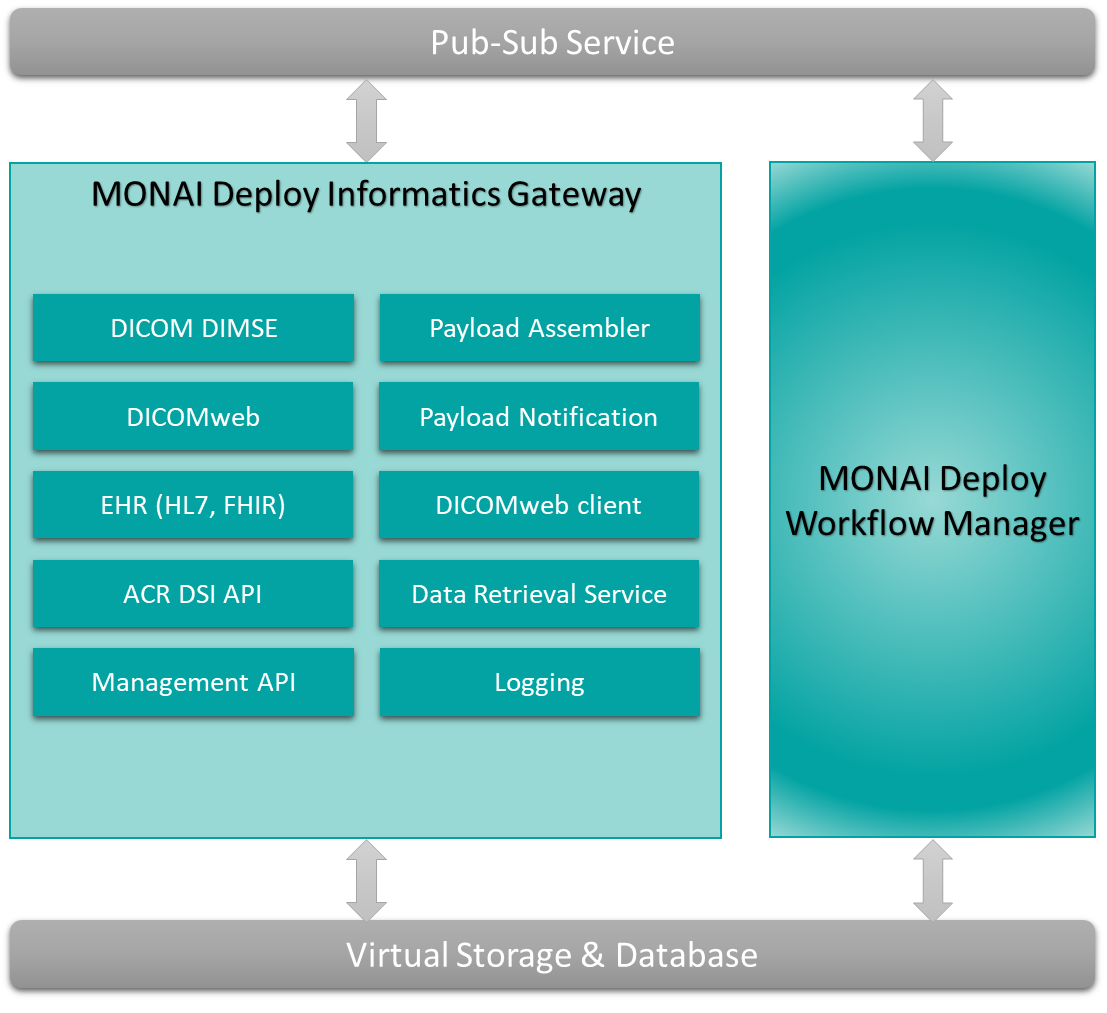
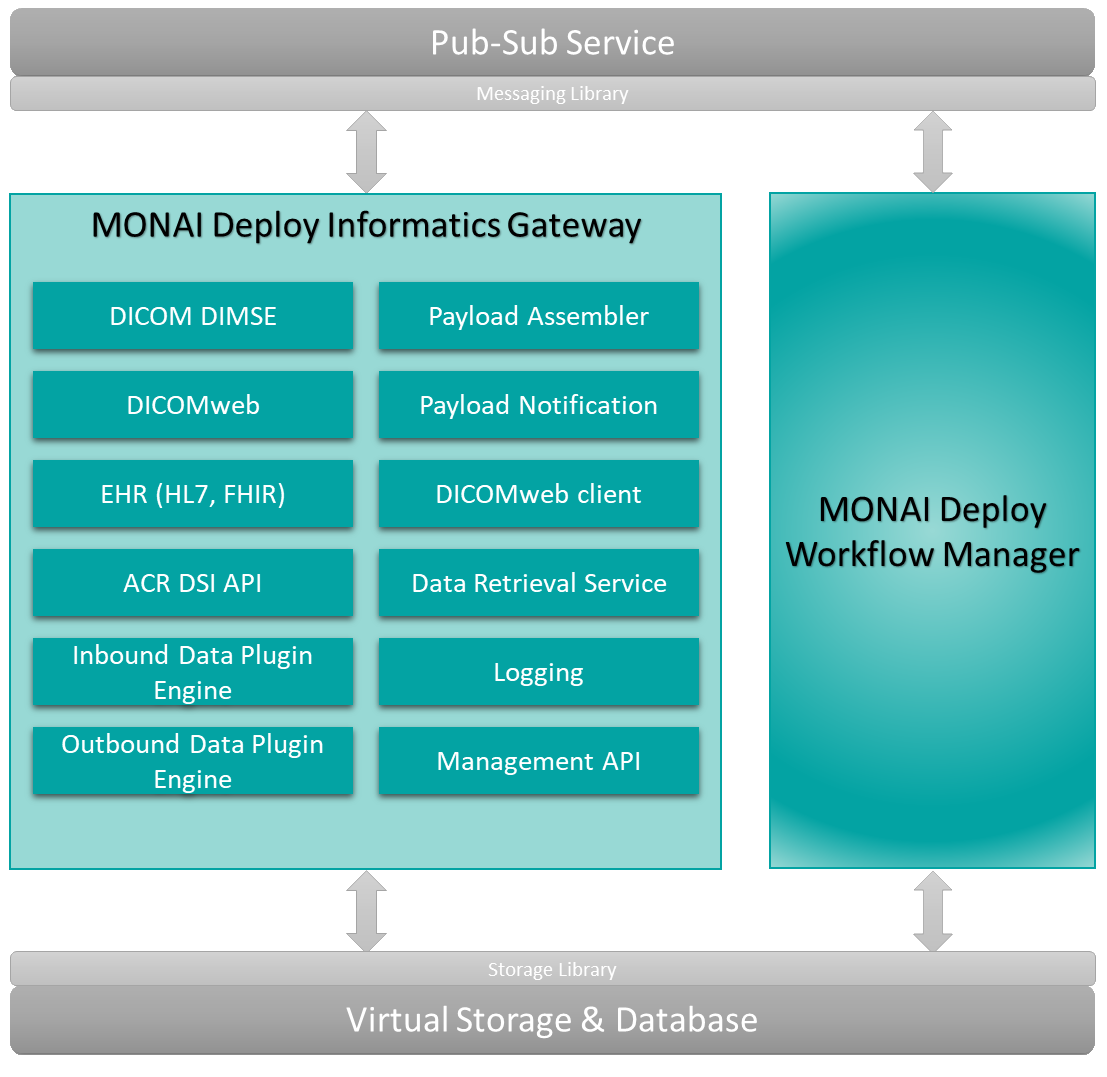
Input/output data plug-in engine

diff --git a/guidelines/mig-sadd.md b/guidelines/mig-sadd.md
@@ -139,6 +139,7 @@ MIG Storage SCP service can be configured to accept all incoming association req
 | Save to disk | Sliding: 250ms - 1000ms | 3               |
 | Notify MWM   | Sliding: 250ms - 1000ms | 3               |
 
+
 ---
 
 ### DICOM SCU Service
@@ -279,6 +280,18 @@ The following APIs are supported to interact with the ACR-DSI API:
 
 ---
 
+#### DICOMWeb STOW-RS API
+
+[DICOMWeb STOW-RS API](../docs/api/rest/dicomweb-stow.md)
+
+---
+
+#### FHIR API
+
+[FHIR API](../docs/api/rest/fhir.md)
+
+---
+
 ### Health API
 
 [Health API](../docs/api/rest/health.md)
@@ -289,6 +302,37 @@ The following APIs are supported to interact with the ACR-DSI API:
 
 [Config API](../docs/api/rest/config.md)
 
+---
+
+### Data Plug-in Engines
+
+[REQ-FNC-06] MIG Data Plug-in Engines provide a plug-in architecture to enable customization of zero or more plug-ins
+to be executed on the inbound and outbound data pipelines.
+
+#### Inbound Data Plug-in Engine
+
+When data arrives at one of the supported data-receiving services, the MIG passes the raw data through the plug-in engine to enable data manipulation.
+
+- For DICOM DIMSE, a list of plug-ins may be configured for each AE Title
+- For DICOMWeb STOW-RS, a list of plug-ins may be configured for each virtual AE Title and a single list for the default API endpoint
+- For the ACR Inference API, a single list of plug-ins may be defined
+- For FHIR, a single list of plug-ins may be defined
+- For HL7, a single list of plug-ins may be defined
+- Each plug-in is executed in the order that it is saved in the list
+- If any plug-in in the configured list fails, the data is dropped and may return an error to the sender, depending on the design of the receiving service.
+- Plug-ins MUST be lightweight and not hinder the upload process
+- Plug-ins SHALL not accumulate files in memory or storage for bulk processing
+
+
+#### Outbound Data Plug-in Engine
+
+When the export service receives an export request and downloads the files included in the request, the export data pipeline passes each file through the plug-in engine for data manipulation.
+
+- A list of plug-ins can be included with each export request
+- Each plug-in is executed in the order that it is saved in the list
+- Plug-ins MUST be lightweight and not hinder the export process
+- Plug-ins SHALL not accumulate files in memory or storage for bulk processing
+- 
 ---
 
 ### Storage & Subsystems
@@ -327,41 +371,11 @@ Each event is associated with a specific type and is serialized to JSON before s
 
 - Workflow Request event
   - Routing Key: `md.workflow.request`
-  - Class name: `WorkflowRequestMessage`
-
-  | Property       | Type               | Description                                                                                                                                                                                     |
-  | -------------  | -------------      | ----------------------------------------------------------------------------------------------------------------------------------------------------------------------------------------------- |
-  | Bucket         | string             | Name of the bucket/directory name, which can be used to locate the payload on the shared storage.                                                                                               |
-  | PayloadId      | string (UUID)      | A UUID generated by Informatics Gateway for internal use.                                                                                                                                       |
-  | Workflows      | string[]           | Workflows associated with the payload, if any.                                                                                                                                                  |
-  | FileCount      | int                | Number of files in the payload.                                                                                                                                                                 |
-  | CorrelationId  | string             | For DIMSE, the correlation ID is the UUID associated with the first DICOM association received. For an ACR inference request, the correlation ID is the Transaction ID in the original request. |
-  | CallingAeTitle | string             | For DIMSE, the sender/calling AE Title of the DICOM dataset. For ACR requests, this is the transaction ID.                                                                                      |
-  | CalledAeTitle  | string             | For DIMSE, the receiving AE Title of the DICOM dataset. For ACR requests, this field is empty.                                                                                                  |
-  | Timestamp      | DateTime           | Date & time in, UTC, when the payload was created.                                                                                                                                              |
-  | Payload        | BlockStorageInfo[] | List of files in the payload                     .                                                                                                                                              |
-
-  - Definition of *BlockStorageInfo*:
-
-  | Property | Type   | Description                                                                                |
-  | -------- | ------ | ------------------------------------------------------------------------------------------ |
-  | Path     | string | Path to the file located relatively to the root of the bucket.                             |
-  | Metadata | string | Path to the metadata file located relatively to the root of the bucket. *See notes below.* |
-
-  Notes:
-    For DICOM files, the metadata file contains the serialized representation of a [DICOM JSON Model](https://dicom.nema.org/dicom/2013/output/chtml/part18/sect_F.2.html).
-    The serialized file may or may not contain any binary blob depending on user's configuration as defined in [DicomConfiguration](../src/Configuration/DicomConfiguration.cs).
+  - Class name: [WorkflowRequestEvent](https://github.com/Project-MONAI/monai-deploy-messaging/blob/develop/src/Messaging/Events/WorkflowRequestEvent.cs)
 
 - Export Complete event
   - Routing Key: `md.export.complete`
-  - Class name: `ExportCompleteMessage`
-
-   | Property     | Type          | Description                                                   |
-   | ------------ | ------------- | ------------------------------------------------------------- |
-   | WorkflowId   | string (UUID) | A UUID generated by the Workflow Manager.                     |
-   | ExportTaskId | string (UUID) | A UUID generated by the Workflow Manager for the export task. |
-   | Status       | string (enum) | Success (0), Failure (1), PartialFailure(2), Unknown(3)       |
-   | Message      | string        | Optional for error messages.                                  |
+  - Class name: [ExportCompleteEvent](https://github.com/Project-MONAI/monai-deploy-messaging/blob/develop/src/Messaging/Events/ExportCompleteEvent.cs)
 
 ##### Subscribed Events
 
@@ -369,12 +383,6 @@ Each event is associated with a specific type and is serialized to JSON before s
   - Routing Key: `md.export.request.[agent name]`
     - DIMSE SCU Export Service: `md.export.request.monaiscu`
     - DICOMweb Export Service: `md.export.request.monaidicomweb`
-  - Class name: `ExportRequestMessage`
-
-    | Property      | Type          | Description                                                                                                                                                                   |
-    | ------------- | ------------- | ----------------------------------------------------------------------------------------------------------------------------------------------------------------------------- |
-    | WorkflowId    | string (UUID) | A UUID generated by the Workflow Manager.                                                                                                                                     |
-    | ExportTaskId  | string (UUID) | A UUID generated by the Workflow Manager for the export task.                                                                                                                 |
-    | Files         | string[]      | A list of files to be exported.                                                                                                                                               |
-    | Destination   | string        | Export destination. For DICOM C-STORE, a named DICOM destination.  For ACR request, use the Transaction ID in the original request.                                           |
-    | CorrelationId | string        | For DIMSE, the correlation ID is the UUID associated with the first DICOM association received. For an ACR inference request, use the Transaction ID in the original request. |
+    - FHIR: TBD
+    - HL7: TBD
+  - Class name: [ExportRequestEvent](https://github.com/Project-MONAI/monai-deploy-messaging/blob/develop/src/Messaging/Events/ExportRequestEvent.cs)

diff --git a/guidelines/mig-srs.md b/guidelines/mig-srs.md
@@ -484,4 +484,23 @@ Setup notification service, make one of the dependencies unavailable, and expect
 
 #### Target Release
 
-MONAI Deploy Informatics Gateway R2
+TBD
+
+### [REQ-FNC-06] MIG SHALL allow minimum data manipulation of incoming and outgoing data while data is in memory
+
+#### Background
+
+Accessing and managing large-scale medical data between storage devices or services has posed significant bottlenecks
+in medical systems. This requirement aims to address these challenges by enabling users to effortlessly manipulate data
+as it flows into the Informatics Gateway and just before it is saved to a designated storage service. Moreover, it
+empowers users to perform data manipulation at the moment the Informatics Gateway exports the data, ensuring a seamless
+and efficient data processing experience.
+
+#### Verification Strategy
+
+Configure suported inbound and export services with one or moreplug-ins and ensure the plug-ins are called in the automated testing.
+
+#### Target Release
+
+MONAI Deploy Informatics Gateway R4
+
